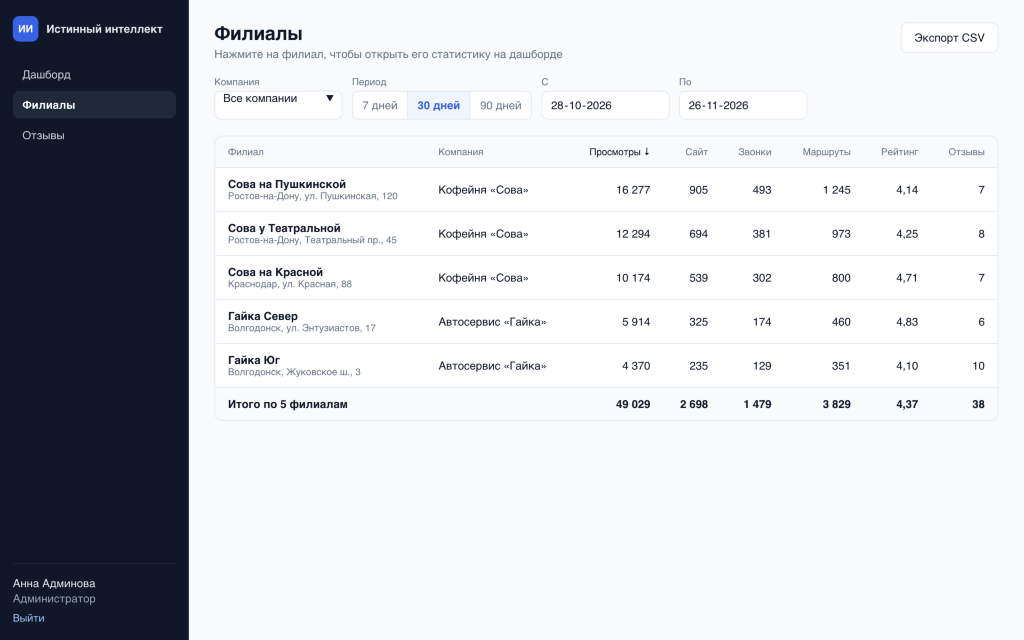
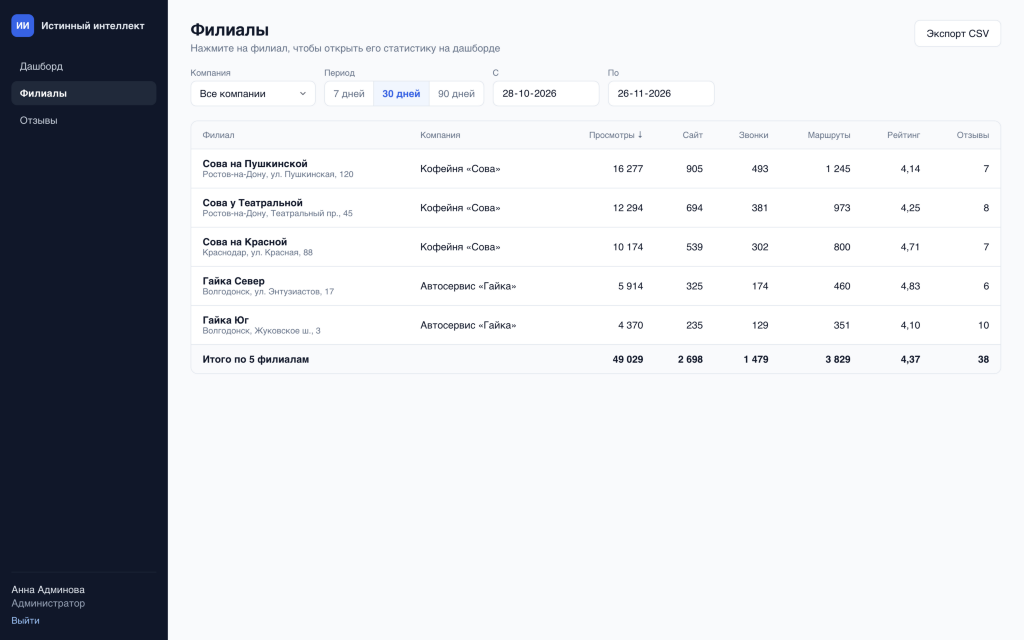
Кастомный компонент Select для фильтров и статусов отзывов

diff --git a/web/src/app/globals.css b/web/src/app/globals.css
@@ -88,16 +88,82 @@ button, input, select { font: inherit; }
 .filters { display: flex; flex-wrap: wrap; gap: 12px; align-items: flex-end; }
 .field { display: flex; flex-direction: column; gap: 4px; }
 .field > span { font-size: 12px; color: var(--muted); font-weight: 500; }
-.field input, .field select {
+.field input {
   height: 36px;
-  padding: 0 10px;
+  padding: 0 12px;
+  border: 1px solid var(--border);
+  border-radius: 8px;
+  background-color: #fff;
+  color: var(--text);
+  min-width: 150px;
+  line-height: 1.2;
+  transition: border-color 0.15s, box-shadow 0.15s;
+}
+.field input:hover { border-color: #cbd5e1; }
+.field input:focus { outline: none; border-color: var(--accent); box-shadow: 0 0 0 3px var(--accent-soft); }
+
+.select-wrap { position: relative; display: inline-flex; }
+.select-trigger {
+  height: 36px;
+  min-width: 176px;
+  padding: 0 10px 0 12px;
   border: 1px solid var(--border);
   border-radius: 8px;
   background: #fff;
   color: var(--text);
-  min-width: 160px;
+  display: inline-flex;
+  align-items: center;
+  justify-content: space-between;
+  gap: 10px;
+  cursor: pointer;
+  white-space: nowrap;
+  transition: border-color 0.15s, box-shadow 0.15s;
 }
-.field input:focus, .field select:focus { outline: 2px solid var(--accent-soft); border-color: var(--accent); }
+.select-trigger:hover:not(:disabled) { border-color: #cbd5e1; }
+.select-trigger:focus-visible { outline: none; border-color: var(--accent); box-shadow: 0 0 0 3px var(--accent-soft); }
+.select-trigger:disabled { opacity: 0.55; cursor: default; }
+.select-label { overflow: hidden; text-overflow: ellipsis; }
+.select-chevron { flex-shrink: 0; opacity: 0.65; transition: transform 0.15s; }
+.select-chevron.is-open { transform: rotate(180deg); }
+.select-menu {
+  position: absolute;
+  top: calc(100% + 6px);
+  left: 0;
+  min-width: 100%;
+  width: max-content;
+  max-width: 300px;
+  margin: 0;
+  padding: 4px;
+  list-style: none;
+  background: #fff;
+  border: 1px solid var(--border);
+  border-radius: 10px;
+  box-shadow: 0 10px 24px rgba(15, 23, 42, 0.1), 0 2px 6px rgba(15, 23, 42, 0.05);
+  z-index: 40;
+}
+.select-menu-right { left: auto; right: 0; }
+.select-option {
+  width: 100%;
+  border: 0;
+  background: transparent;
+  color: var(--text);
+  padding: 7px 10px;
+  border-radius: 6px;
+  display: flex;
+  align-items: center;
+  gap: 8px;
+  text-align: left;
+  cursor: pointer;
+  font-size: 13px;
+  white-space: nowrap;
+}
+.select-option:hover { background: #f1f5f9; }
+.select-option.is-selected { background: var(--accent-soft); color: var(--accent); font-weight: 600; }
+.select-check { margin-left: auto; flex-shrink: 0; }
+.select-dot { width: 7px; height: 7px; border-radius: 50%; flex-shrink: 0; }
+.dot-new { background: var(--red); }
+.dot-in_progress { background: #d97706; }
+.dot-resolved { background: var(--green); }
 
 .segmented { display: inline-flex; border: 1px solid var(--border); border-radius: 8px; overflow: hidden; background: #fff; }
 .segmented button { border: 0; background: transparent; padding: 0 12px; height: 34px; cursor: pointer; color: var(--muted); transition: background 0.15s, color 0.15s; }
@@ -148,10 +214,24 @@ button, input, select { font: inherit; }
 .reviews { display: flex; flex-direction: column; gap: 10px; }
 .review p { margin: 10px 0 0; line-height: 1.5; }
 .review-head { display: flex; align-items: center; gap: 12px; flex-wrap: wrap; }
-.review-head .status { margin-left: auto; }
+.review-head .review-status { margin-left: auto; }
 .stars { color: #f59e0b; letter-spacing: 1px; }
 .stars-empty { color: #e2e8f0; }
-.status { height: 30px; border-radius: 999px; border: 1px solid var(--border); padding: 0 10px; font-size: 12px; font-weight: 500; cursor: pointer; }
+.status {
+  height: 30px;
+  border-radius: 999px;
+  border: 1px solid var(--border);
+  padding: 0 10px 0 12px;
+  font-size: 12px;
+  font-weight: 500;
+  display: inline-flex;
+  align-items: center;
+  gap: 6px;
+  cursor: pointer;
+  transition: filter 0.15s;
+}
+.status:hover:not(:disabled) { filter: brightness(0.96); }
+.status:focus-visible { outline: none; box-shadow: 0 0 0 2px var(--accent-soft); }
 .status-new { background: #fef2f2; color: var(--red); border-color: #fecaca; }
 .status-in_progress { background: #fffbeb; color: #b45309; border-color: #fde68a; }
 .status-resolved { background: #ecfdf5; color: var(--green); border-color: #a7f3d0; }

diff --git a/web/src/components/Filters.tsx b/web/src/components/Filters.tsx
@@ -1,5 +1,6 @@
 'use client';
 
+import { Select } from '@/components/Select';
 import { api } from '@/lib/api';
 import { useAuth } from '@/lib/auth';
 import { useFilters } from '@/lib/filters';
@@ -27,41 +28,42 @@ export function Filters({ showBranch = true }: { showBranch?: boolean }) {
   const today = toIso(new Date());
   const activePreset = PRESETS.find((p) => filters.to === today && filters.from === isoDaysAgo(p.days - 1));
 
+  const companyOptions = [
+    { value: '', label: 'Все компании' },
+    ...(companies.data?.map((c) => ({ value: String(c.id), label: c.name })) ?? []),
+  ];
+
+  const branchOptions = [
+    { value: '', label: 'Все филиалы' },
+    ...(branches.data?.items.map((b) => ({
+      value: String(b.id),
+      label: isAdmin && !filters.companyId ? `${b.companyName} · ${b.name}` : b.name,
+    })) ?? []),
+  ];
+
   return (
     <div className="filters">
       {isAdmin && (
-        <label className="field">
+        <div className="field">
           <span>Компания</span>
-          <select
-            value={filters.companyId ?? ''}
-            onChange={(e) => update({ companyId: e.target.value ? Number(e.target.value) : undefined, branchId: undefined })}
-          >
-            <option value="">Все компании</option>
-            {companies.data?.map((c) => (
-              <option key={c.id} value={c.id}>
-                {c.name}
-              </option>
-            ))}
-          </select>
-        </label>
+          <Select
+            value={filters.companyId ? String(filters.companyId) : ''}
+            options={companyOptions}
+            onChange={(v) => update({ companyId: v ? Number(v) : undefined, branchId: undefined })}
+          />
+        </div>
       )}
 
       {showBranch && (
-        <label className="field">
+        <div className="field">
           <span>Филиал</span>
-          <select
-            value={filters.branchId ?? ''}
+          <Select
+            value={filters.branchId ? String(filters.branchId) : ''}
+            options={branchOptions}
             disabled={branches.loading && !branches.data}
-            onChange={(e) => update({ branchId: e.target.value ? Number(e.target.value) : undefined })}
-          >
-            <option value="">Все филиалы</option>
-            {branches.data?.items.map((b) => (
-              <option key={b.id} value={b.id}>
-                {isAdmin && !filters.companyId ? `${b.companyName} · ${b.name}` : b.name}
-              </option>
-            ))}
-          </select>
-        </label>
+            onChange={(v) => update({ branchId: v ? Number(v) : undefined })}
+          />
+        </div>
       )}
 
       <div className="field">
@@ -70,6 +72,7 @@ export function Filters({ showBranch = true }: { showBranch?: boolean }) {
           {PRESETS.map((p) => (
             <button
               key={p.days}
+              type="button"
               className={activePreset === p ? 'active' : ''}
               onClick={() => update({ from: isoDaysAgo(p.days - 1), to: today })}
             >

diff --git a/web/src/components/Select.tsx b/web/src/components/Select.tsx
@@ -1,0 +1,87 @@
+'use client';
+
+import { useEffect, useRef, useState } from 'react';
+
+export interface SelectOption {
+  value: string;
+  label: string;
+  dotClass?: string;
+}
+
+interface Props {
+  value: string;
+  options: SelectOption[];
+  onChange: (value: string) => void;
+  disabled?: boolean;
+  className?: string;
+  align?: 'left' | 'right';
+}
+
+export function Select({ value, options, onChange, disabled, className = 'select-trigger', align = 'left' }: Props) {
+  const [open, setOpen] = useState(false);
+  const rootRef = useRef<HTMLDivElement>(null);
+
+  useEffect(() => {
+    if (!open) return;
+    const onPointerDown = (e: MouseEvent) => {
+      if (rootRef.current && !rootRef.current.contains(e.target as Node)) setOpen(false);
+    };
+    const onKeyDown = (e: KeyboardEvent) => {
+      if (e.key === 'Escape') setOpen(false);
+    };
+    document.addEventListener('mousedown', onPointerDown);
+    document.addEventListener('keydown', onKeyDown);
+    return () => {
+      document.removeEventListener('mousedown', onPointerDown);
+      document.removeEventListener('keydown', onKeyDown);
+    };
+  }, [open]);
+
+  const active = options.find((o) => o.value === value) ?? options[0];
+
+  return (
+    <div className="select-wrap" ref={rootRef}>
+      <button
+        type="button"
+        className={className}
+        disabled={disabled}
+        aria-haspopup="listbox"
+        aria-expanded={open}
+        onClick={() => setOpen((v) => !v)}
+      >
+        <span className="select-label">{active?.label ?? ''}</span>
+        <svg className={`select-chevron ${open ? 'is-open' : ''}`} width="14" height="14" viewBox="0 0 20 20" fill="none" aria-hidden="true">
+          <path d="M5.5 7.75L10 12.25L14.5 7.75" stroke="currentColor" strokeWidth="1.8" strokeLinecap="round" strokeLinejoin="round" />
+        </svg>
+      </button>
+
+      {open && (
+        <ul className={`select-menu ${align === 'right' ? 'select-menu-right' : ''}`} role="listbox">
+          {options.map((opt) => {
+            const isSelected = opt.value === value;
+            return (
+              <li key={opt.value} role="option" aria-selected={isSelected}>
+                <button
+                  type="button"
+                  className={`select-option ${isSelected ? 'is-selected' : ''}`}
+                  onClick={() => {
+                    onChange(opt.value);
+                    setOpen(false);
+                  }}
+                >
+                  {opt.dotClass && <span className={`select-dot ${opt.dotClass}`} />}
+                  <span>{opt.label}</span>
+                  {isSelected && (
+                    <svg className="select-check" width="14" height="14" viewBox="0 0 20 20" fill="none" aria-hidden="true">
+                      <path d="M5 10.5L8.5 14L15 7" stroke="currentColor" strokeWidth="2" strokeLinecap="round" strokeLinejoin="round" />
+                    </svg>
+                  )}
+                </button>
+              </li>
+            );
+          })}
+        </ul>
+      )}
+    </div>
+  );
+}

diff --git a/web/src/app/(cabinet)/reviews/page.tsx b/web/src/app/(cabinet)/reviews/page.tsx
@@ -2,6 +2,7 @@
 
 import { useEffect, useState } from 'react';
 import { Filters } from '@/components/Filters';
+import { Select } from '@/components/Select';
 import { Stars } from '@/components/Stars';
 import { Empty, ErrorBox, Loader } from '@/components/States';
 import { api, buildQuery } from '@/lib/api';
@@ -132,18 +133,20 @@ export default function ReviewsPage() {
                 <span className="muted small">
                   {SOURCE_LABELS[r.source]} · {r.branchName} · {formatDate(r.publishedAt)}
                 </span>
-                <select
-                  className={`status status-${r.status}`}
-                  value={r.status}
-                  disabled={saving === r.id}
-                  onChange={(e) => changeStatus(r, e.target.value as ReviewStatus)}
-                >
-                  {(Object.keys(STATUS_LABELS) as ReviewStatus[]).map((s) => (
-                    <option key={s} value={s}>
-                      {STATUS_LABELS[s]}
-                    </option>
-                  ))}
-                </select>
+                <div className="review-status">
+                  <Select
+                    className={`status status-${r.status}`}
+                    align="right"
+                    value={r.status}
+                    disabled={saving === r.id}
+                    options={(Object.keys(STATUS_LABELS) as ReviewStatus[]).map((s) => ({
+                      value: s,
+                      label: STATUS_LABELS[s],
+                      dotClass: `dot-${s}`,
+                    }))}
+                    onChange={(next) => changeStatus(r, next as ReviewStatus)}
+                  />
+                </div>
               </div>
               <p>{r.text}</p>
             </article>
